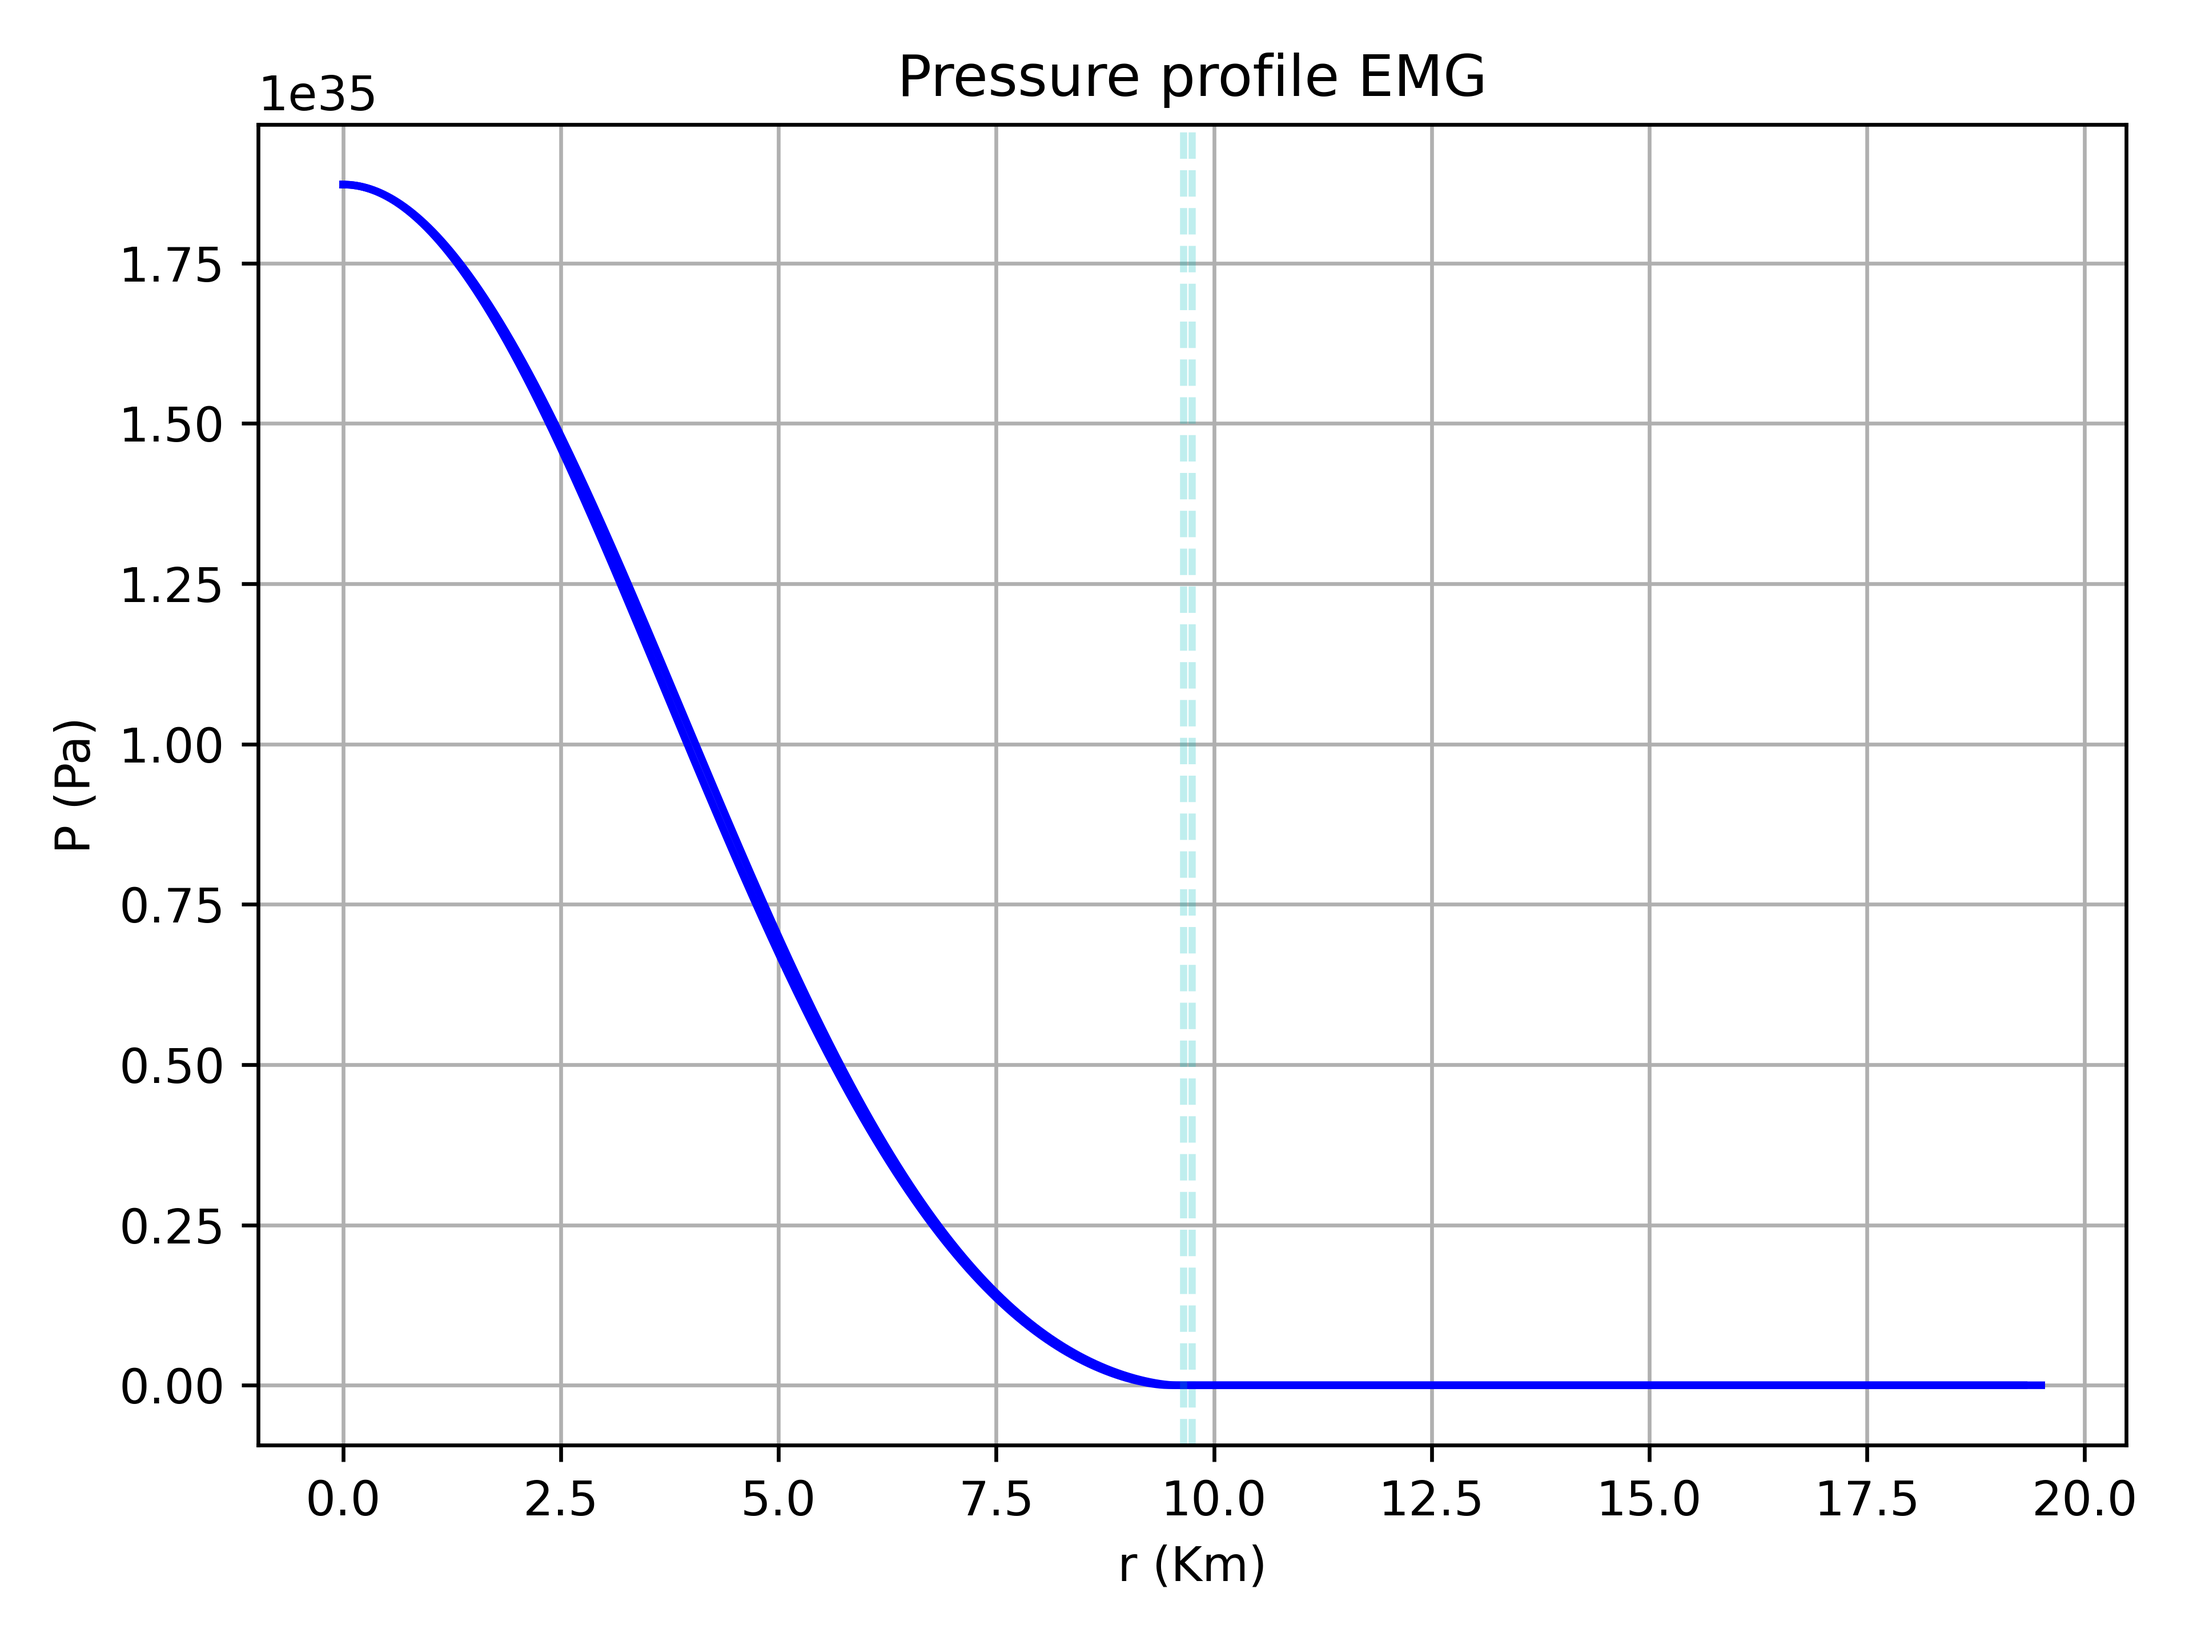
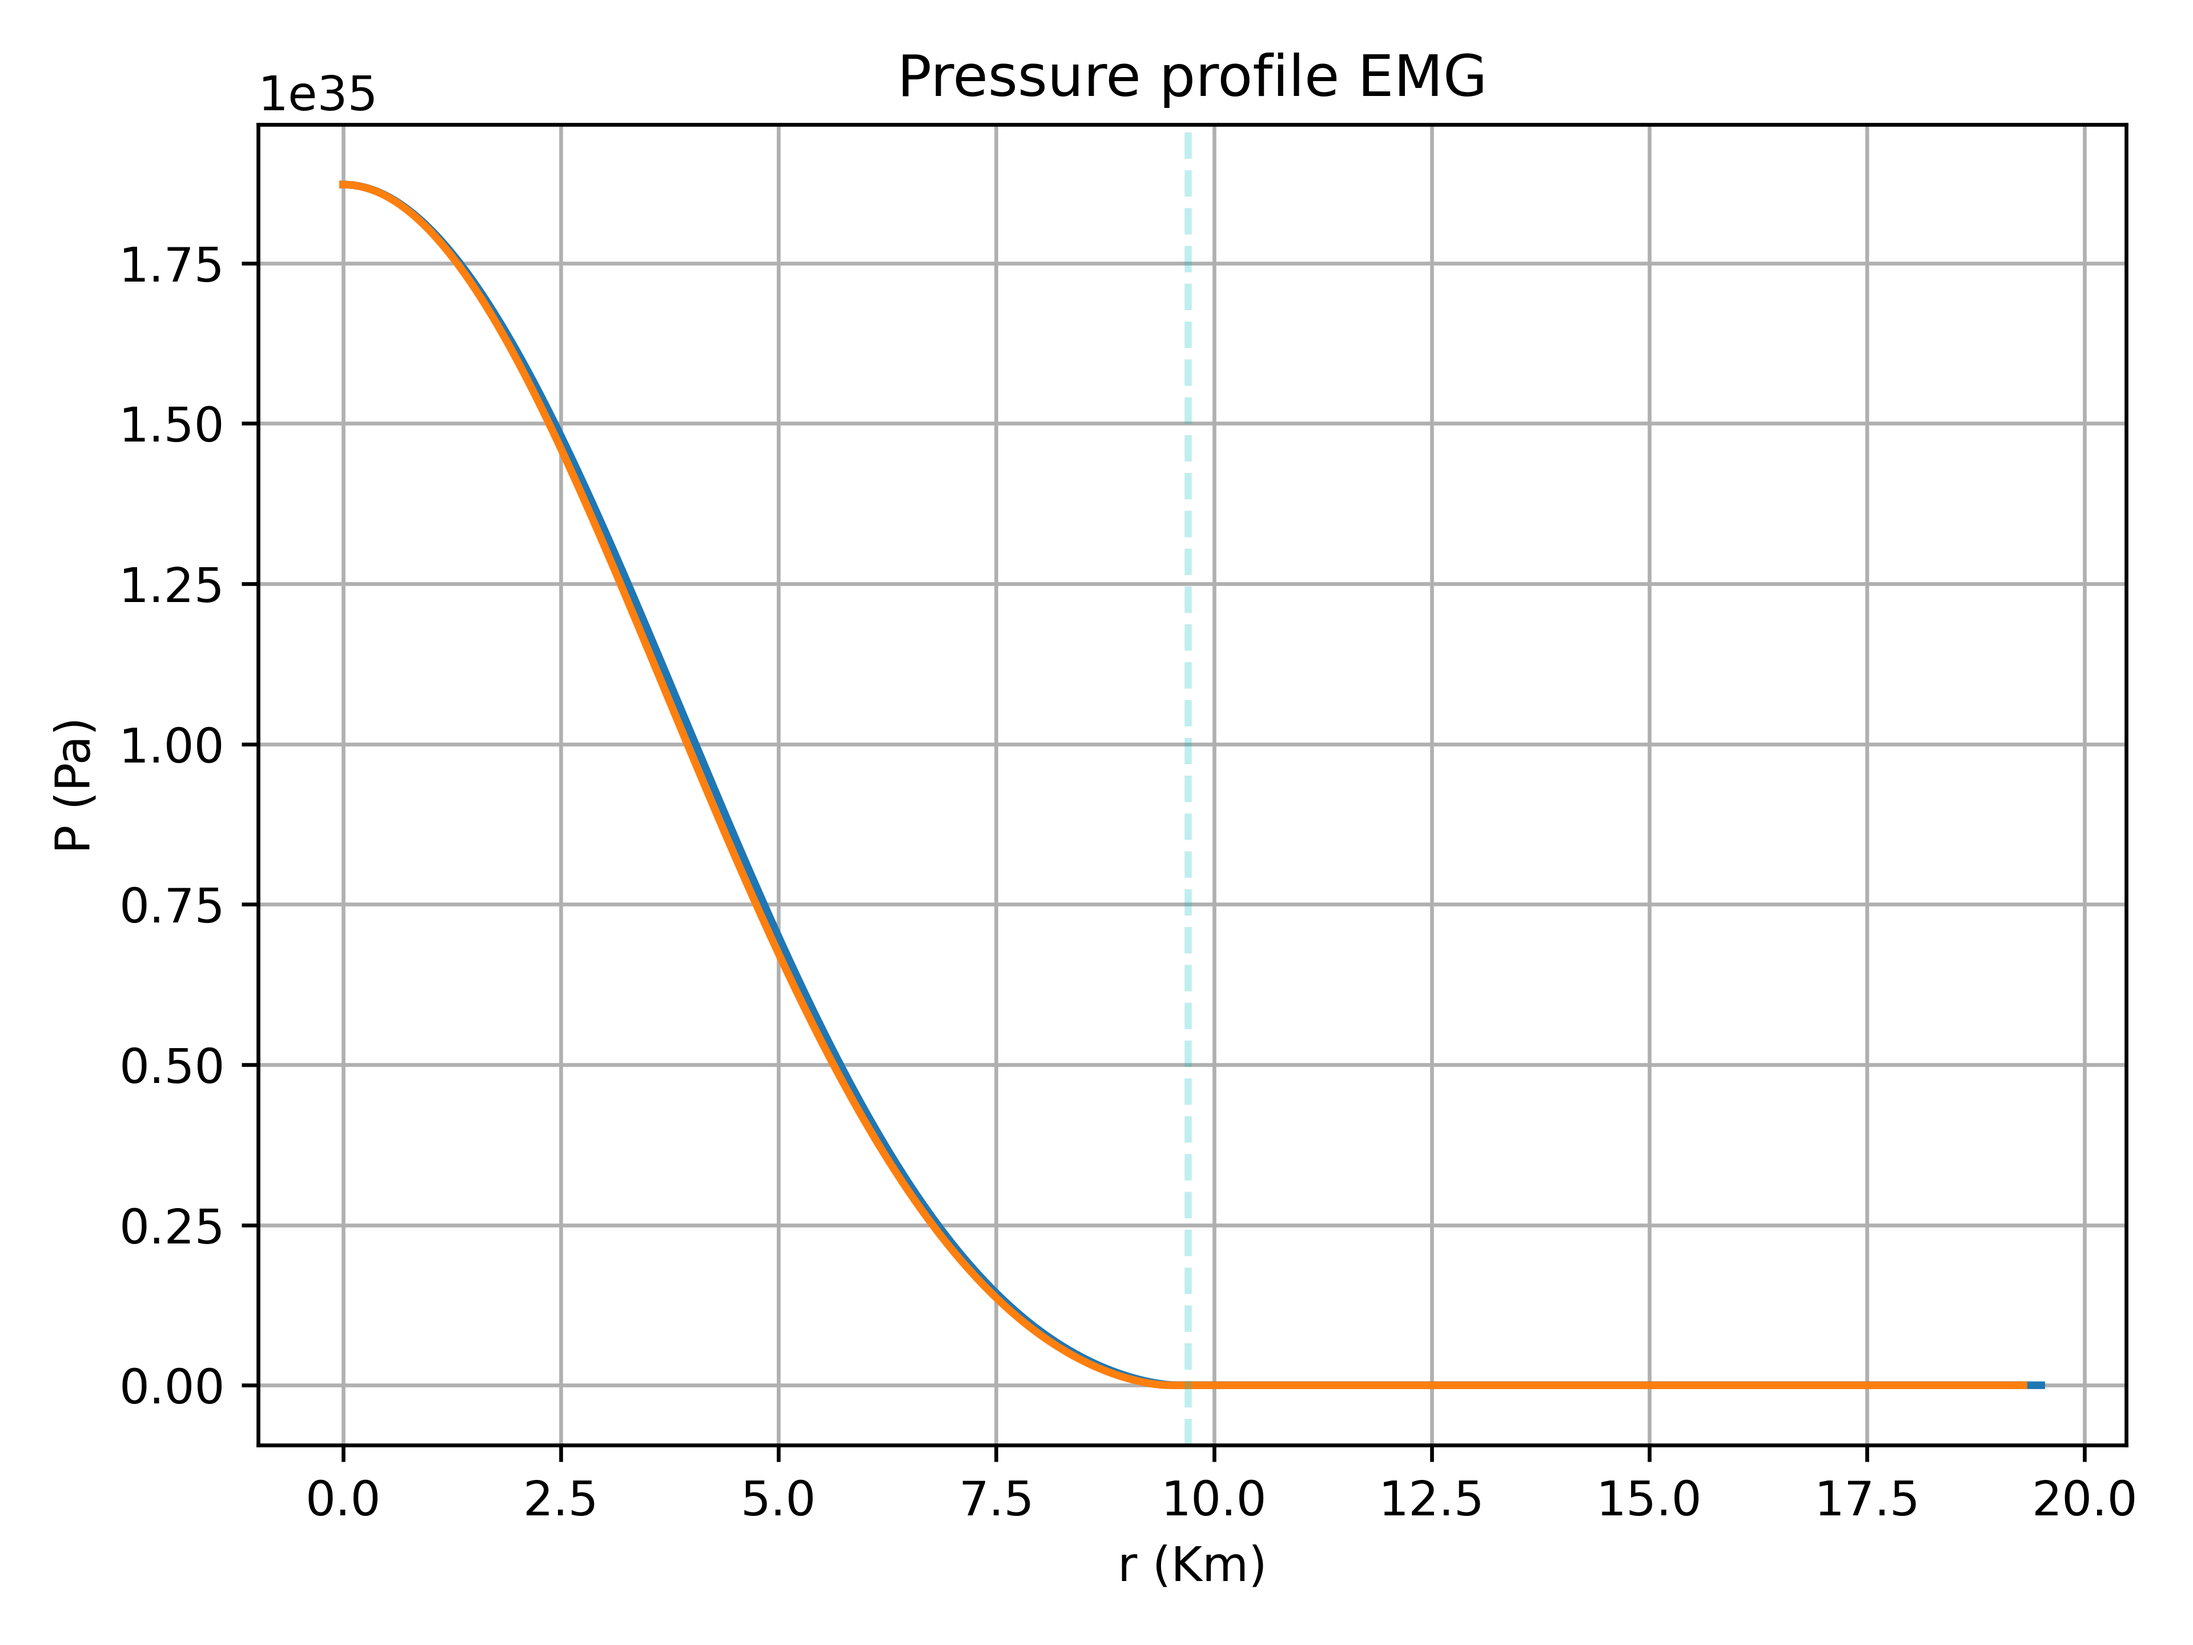
added guards against divergencies

diff --git a/Utils/TOV_EMG.py b/Utils/TOV_EMG.py
@@ -6,13 +6,17 @@ lmbda = lmbda_EMG
 
 # === INITIAL CONDITIONS EMG (SI) — regular O(r^2) center expansion ===
 def _sigma2_psi2(sigma0, p0, eps0, xi, lmbda=lmbda):
-    sigma2 = (M2 * lmbda * sigma0**3 - xi * sigma0 * (eps0 - 3 * p0)) / (
-        6 * (M2 + xi * sigma0**2 - 2 * xi**2 * sigma0**2)
-    )
+    # Denominator in the σ₂ expression; can vanish for large |xi| or σ₀
+    denom_sigma = 6 * (M2 + xi * sigma0**2 - 2 * xi**2 * sigma0**2)
+    if (not np.isfinite(denom_sigma)) or (abs(denom_sigma) < 1e-30):
+        # Return NaNs so the integrator can treat this initial guess as invalid
+        return float("nan"), float("nan")
+    sigma2 = (M2 * lmbda * sigma0**3 - xi * sigma0 * (eps0 - 3 * p0)) / denom_sigma
 
-    Psi2 = (12 * xi * sigma0 * sigma2 + eps0 + 0.25 * lmbda * sigma0**4) / (
-        6 * (M2 + xi * sigma0**2)
-    )
+    denom_Psi = 6 * (M2 + xi * sigma0**2)
+    if (not np.isfinite(denom_Psi)) or (abs(denom_Psi) < 1e-30):
+        return float("nan"), float("nan")
+    Psi2 = (12 * xi * sigma0 * sigma2 + eps0 + 0.25 * lmbda * sigma0**4) / denom_Psi
     return sigma2, Psi2
 
 
@@ -61,18 +65,29 @@ def make_tov_EMG(p_c,frac_pc, rho_eqState, xi, mu2_recorder=None):
 
         F_val = F(sigma, xi)
         F_prime = dF_dsigma(sigma, xi) * dsigma
-        g11 = np.exp(2 * Psi)
+        # safe metric factor: clamp exponent to [-700, 700]
+        exponent = np.clip(2.0 * Psi, -700.0, 700.0)
+        g11 = np.exp(exponent)
 
-        # dPhi/dr
-        dPhi = (1 / (2 * F_val + r * F_prime)) * (
+        denom = 2.0 * F_val + r * F_prime
+        if denom == 0.0:
+            return [np.inf, np.inf, np.inf, np.inf]
+
+        # dΦ/dr
+        denom_dPhi = 2 * F_val + r * F_prime
+        if (not np.isfinite(denom_dPhi)) or (abs(denom_dPhi) < 1e-30):
+            return [np.inf, np.inf, np.inf, np.inf]
+
+        dPhi = (1 / denom_dPhi) * (
             F_val * (g11 - 1) / r
             + 0.5 * r * dsigma**2
             + (p - V(sigma)) * r * g11
             - 2 * F_prime
         )
 
-        # Definition of \bar{m} for convenience
-        Psi_bar = (1 / (r * (2 * F_val + r * F_prime))) * (
+        # Definition of Ψ̄ for convenience
+        denom_Psi_bar = r * denom_dPhi
+        Psi_bar = (1 / denom_Psi_bar) * (
             (1 - g11) * F_val
             + r**2
             * (
@@ -82,10 +97,14 @@ def make_tov_EMG(p_c,frac_pc, rho_eqState, xi, mu2_recorder=None):
             )
         )
 
-        # d^2sigma/dr^2)
+        # d²σ/dr²
+        denom_ddsigma = 2 * F_val * (F_val + 6 * xi**2 * sigma**2)
+        if (not np.isfinite(denom_ddsigma)) or (abs(denom_ddsigma) < 1e-30):
+            return [np.inf, np.inf, np.inf, np.inf]
+
         dd_sigma = (
             (2 * F_val + r * F_prime)
-            / (2 * F_val * (F_val + 6 * xi**2 * sigma**2))
+            / denom_ddsigma
             * (
                 F_val
                 * (
@@ -104,8 +123,9 @@ def make_tov_EMG(p_c,frac_pc, rho_eqState, xi, mu2_recorder=None):
             )
         )
 
-        # dm/dr
-        dPsi = Psi_bar + (2 * r * xi) * sigma * dd_sigma / (2 * F_val + r * F_prime)
+        # dΨ/dr
+        denom_dPsi = denom_dPhi
+        dPsi = Psi_bar + (2 * r * xi) * sigma * dd_sigma / denom_dPsi
 
         # dp/dr
         dp = -(eps + p) * dPhi
@@ -153,4 +173,26 @@ class StoppingConditions:
             return r - 2.0 * self.R_star
         _ev.terminal = True        # do stop at 2R*
         _ev.direction = +1
+        return _ev
+
+    # Terminate when dynamics become singular/unsafe (prevents stalls)
+    def blowup_guard(self, xi):
+        # thresholds: small denominators & very large |Psi|
+        DEN_TOL = 1e-30
+        PSI_MAX = 350.0  # well within exp() clamp; avoids pathological regimes
+
+        def _ev(r, y):
+            _, Psi, sigma, dsigma = y
+            # recompute small-denominator conditions cheaply
+            F_val = M2 + xi * sigma**2
+            F_prime = 2.0 * xi * sigma * dsigma
+
+            denom1 = abs(2.0 * F_val + r * F_prime)
+            denom2 = abs(2.0 * F_val * (F_val + 6.0 * xi**2 * sigma**2))
+
+            # event root when min(...) hits zero
+            return min(denom1 - DEN_TOL, denom2 - DEN_TOL, PSI_MAX - abs(Psi))
+
+        _ev.terminal = True
+        _ev.direction = -1
         return _ev

diff --git a/Utils/graphics.py b/Utils/graphics.py
@@ -27,6 +27,7 @@ def printResults_multi(entries, xi, star_weight):
 
     # --- Pressure profile ---
     plt.figure()
+    star_radii = []
     for i, e in enumerate(entries):
         sol = e["sol"]
         sty = styles[i % len(styles)]
@@ -37,8 +38,10 @@ def printResults_multi(entries, xi, star_weight):
             p_plot = y_plot[0]
         else:
             p_plot = np.interp(r_plot, sol.t, sol.y[0])
-        plt.plot(r_plot/1e3, p_plot, color='blue', **sty)
-        plt.axvline(x=e["r_star"], color=R_star_color, linestyle='--', alpha=0.25)
+        plt.plot(r_plot / 1e3, p_plot, **sty)
+        star_radii.append(e["r_star"])
+    avg_R_star = np.mean([r for r in star_radii if r is not None])
+    plt.axvline(x=avg_R_star, color=R_star_color, linestyle="--", alpha=0.25)
     plt.xlabel('r (Km)')
     plt.ylabel("P (Pa)")
     plt.grid(True); plt.title('Pressure profile EMG')
@@ -62,8 +65,8 @@ def printResults_multi(entries, xi, star_weight):
     #    Phi_norm_plot = phi_plot - phi_plot[-1]
     #    plt.plot(r_plot/1e3, m_plot*(c*c/G_N)/SM, label=f"m(r) [{e['label']}]", **sty)
     #
-    # for e in entries:
-    #    plt.axvline(x=e["r_star"], color=R_star_color, linestyle='--', alpha=0.25)
+    #
+    # plt.axvline(x=avg_R_star, color=R_star_color, linestyle='--', alpha=0.25)
     #
     # for i, e in enumerate(entries):
     #    sol = e["sol"]; sty = styles[i % len(styles)].copy(); sty.update(alpha=0.6)
@@ -110,8 +113,7 @@ def printResults_multi(entries, xi, star_weight):
         sty = styles[i % len(styles)]
         plt.plot(r_plot, mu2_plot_km, label=rf"$\mu_{{\rm eff}}^2$ [{e['label']}]", **sty)
 
-    for e in entries:
-        plt.axvline(x=e["r_star"], color=R_star_color, linestyle='--', alpha=0.25)
+    plt.axvline(x=avg_R_star, color=R_star_color, linestyle="--", alpha=0.25)
     plt.axhline(0.0, color='black', linestyle='--', linewidth=1.0, alpha=0.6)
     plt.xlabel('r (Km)'); plt.ylabel(r'$\mu_{\rm eff}^2$ (Km$^{-2}$)')
     plt.title('Effective Mass Squared Profile')
@@ -130,8 +132,8 @@ def printResults_multi(entries, xi, star_weight):
         else:
             sigma_plot = np.interp(r_plot, sol.t, sol.y[2])
         plt.plot(r_plot/1e3, sigma_plot/M, label=f"σ/M_Pl [{e['label']}]", **sty)
-    for e in entries:
-        plt.axvline(x=e["r_star"], color=R_star_color, linestyle='--', alpha=0.25)
+
+    plt.axvline(x=avg_R_star, color=R_star_color, linestyle="--", alpha=0.25)
     plt.xlabel('r (Km)')
     plt.legend(); plt.grid(True)
     plt.title('Scalar field σ(r) for EMG')
@@ -153,8 +155,8 @@ def printResults_multi(entries, xi, star_weight):
     #    plt.plot(r_plot/1e3, sigma_plot/sigma0, label=f"σ(r)/σ₀ [{e['label']}]", **sty)
     #
     ## vertical lines at R_star
-    # for e in entries:
-    #    plt.axvline(x=e["r_star"], color=R_star_color, linestyle='--', alpha=0.25)
+    #
+    # plt.axvline(x=avg_R_star, color=R_star_color, linestyle='--', alpha=0.25)
     #
     ## annotate sigma0 values in the corner of the plot
     # text_lines = []

diff --git a/Utils/solver.py b/Utils/solver.py
@@ -43,6 +43,20 @@ def adm_mass_from_solution(sol, k_tail=15):
 def integrate_star(sigma0, p_eqState, rho_eqState, r0, r_max, xi, rho0, frac_pc, stop_at_2r=True, record_mu2=False):
     r_span = (r0, r_max)
     y0 = initial_conditions(r0, sigma0, p_eqState, xi, rho0)
+
+    # If the center expansion is invalid (NaNs), return a minimal stub result.
+    if not np.all(np.isfinite(y0)):
+
+        class _Stub:
+            pass
+
+        sol = _Stub()
+        sol.t = np.array([r0], dtype=float)
+        sol.y = np.array(y0, dtype=float).reshape(4, 1)
+        R_star_m = None
+        mu2_log = []
+        return sol, mu2_log, R_star_m
+
     p_c = y0[0]
 
     mu2_log = []
@@ -53,19 +67,31 @@ def integrate_star(sigma0, p_eqState, rho_eqState, r0, r_max, xi, rho0, frac_pc,
 
     events = StoppingConditions(p_c, frac_pc)
     ev_surface = events.pressure_limit()
+    ev_blow = events.blowup_guard(xi)
 
     if stop_at_2r:
         ev_2R = events.double_radius()
         sol = solve_ivp(
-            tov, r_span, y0, dense_output=True, method='RK45',
-            rtol=1e-6, atol=1e-9, events=[ev_surface, ev_2R]
+            tov,
+            r_span,
+            y0,
+            dense_output=True,
+            method="RK45",
+            rtol=1e-6,
+            atol=1e-9,
+            events=[ev_surface, ev_2R, ev_blow],
         )
     else:
         sol = solve_ivp(
-            tov, r_span, y0, dense_output=True, method='RK45',
-            rtol=1e-6, atol=1e-9
+            tov,
+            r_span,
+            y0,
+            dense_output=True,
+            method="RK45",
+            rtol=1e-6,
+            atol=1e-9,
+            events=[ev_blow],
         )
 
     R_star_m = events.R_star  # set after solve
     return sol, mu2_log, R_star_m
-

diff --git a/main.py b/main.py
@@ -26,7 +26,6 @@ frac_pc = 1e-10
 
 
 # Shooting method parameters
-# Use a wider bracket and a tighter absolute cutoff
 a, b = 1e-8 * M, 0.5 * M  #  Bracket for σ0
 # Increase the number of seeds to sample the bracket finely
 n_seeds = 25
